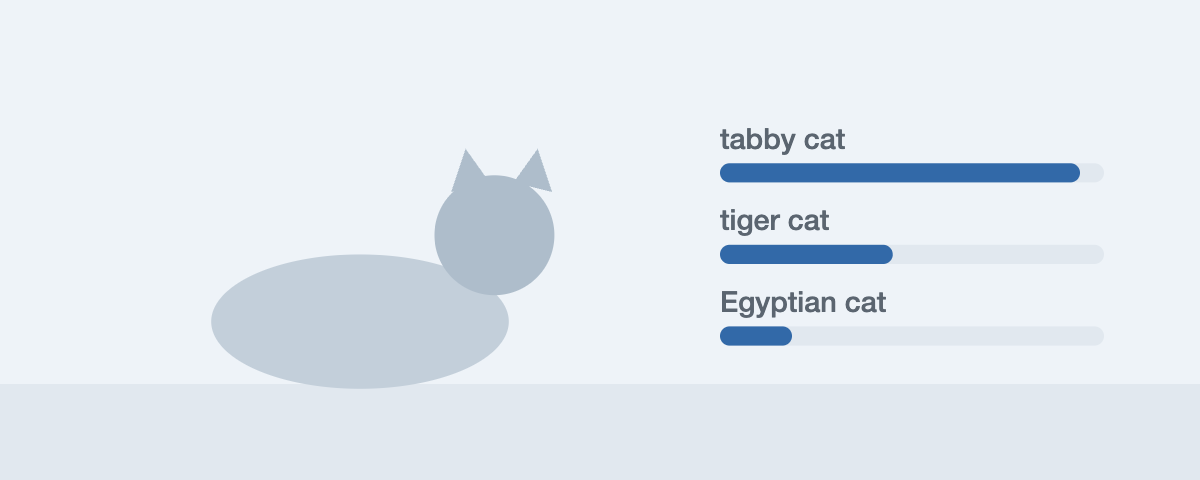
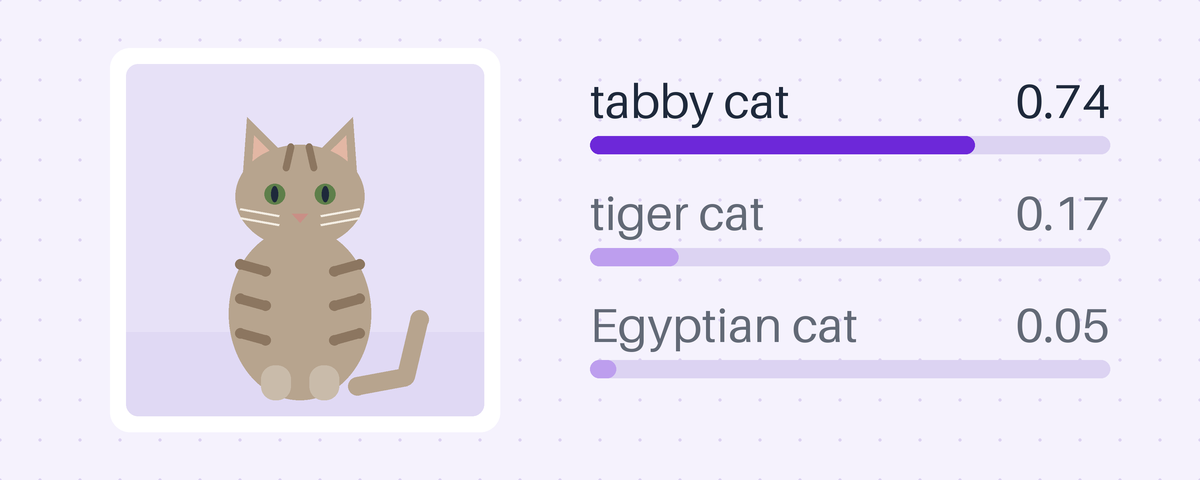
feat(models): redraw heroes to show each model's output (#234)
* feat(models): render heroes from committed specs

The old heroes were hand-made images that did not show what each
model does, and nothing kept them consistent across a family or
reproducible after a model change.

- Draw every hero from a HeroSpec: the task picks the template, the
  architecture picks the family accent and backdrop, and each model
  gets its own scene.
- Test that specs match model.yaml, scenes are unique, labels fit
  without overlap, and committed PNGs match their specs.
- Document how to add a hero in AGENTS.md.

Hero code lives in tools/heroes/ so no compile, performance, or
accuracy key changes.

Closes #227

* refactor(models): drop hero renderer, keep heroes

A drawing engine for 14 static images costs more to maintain than
the images it produces. Keep the redrawn heroes, remove the window
from the RF-DETR scenes, and state the consistency rule in AGENTS.md.

Refs #227

diff --git a/AGENTS.md b/AGENTS.md
@@ -203,6 +203,11 @@ shown above. The registry publishes the image as a checksum-bound Vulcan
 artifact alongside the README; do not use a placeholder, remote image URL, or
 an image outside the model directory.
 
+Create a hero for each model and keep heroes consistent across the catalog.
+Each hero shows the model's output on an input, such as labeled boxes on a
+scene, in a scene no other model uses. Models of one architecture share a
+style and accent color, and labels use the same size on every hero.
+
 When changing model behavior, interfaces, supported builds, qualification
 evidence, installation steps, or redistribution terms, update the owning
 README and the hero image in the same change. A README- or hero-only edit is
